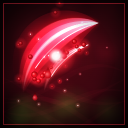
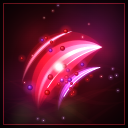
[Claude] feat(ui): 疾風迅雷、迴旋斬、血刃斬圖示重畫並置中
- 疾風迅雷：改為經典 ⚡ 實心雷電＋纏繞的青綠疾風氣流與速度線，一眼看得出是風雷
- 迴旋斬：刀光平均分布一整圈，配色由單一金黃改為金、橘、赤紅、洋紅並點綴青白火花
- 血刃斬：弧線重新定位讓重心落在中央，加入紫色外霧、紫羅蘭細血痕與部分紫色血珠
- 工作站新增 centroid(gid)：量亮度加權的構圖重心，置中與否用數字確認
- 技能圖示快取版號 +1（ui.js 升到 1.0.131，合併 ai/claude-runeword 時這一行取大值）

diff --git a/tools/skill-icons/skill-icon-painter.js b/tools/skill-icons/skill-icon-painter.js
@@ -488,40 +488,45 @@
     motes(c, R, 12, [140, 10, 246, 120], ['#bfe0ff', '#ffffff'], 1, 2.2);
   };
 
-  /* 迴旋斬：俯視的旋風刀光圓盤（只用刀光與火花，不畫兵器），火花沿切線甩出 */
+  /* 迴旋斬：俯視的旋風刀光圓盤，刀光平均分布一整圈；金橘赤紅洋紅多色，青白火花點綴（不畫兵器） */
   PAINTERS.cleave = function (c, R) {
-    background(c, R, PAL.gold);
-    var cx = 128, cy = 130, sq = 0.62;
+    background(c, R, Object.assign({ cx: 128, cy: 128 }, PAL.gold));
+    /* 圓盤中心往右 10：最外圈刀光的粗頭落在左側，量出重心偏左 11 */
+    var cx = 138, cy = 128, sq = 0.62;
+    /* 底色加一層紅紫，讓畫面不只有黃 */
     add(c);
+    glowDot(c, 70, 70, 110, '#8a1a4a', 0.35);
+    glowDot(c, 190, 196, 110, '#6a1a7a', 0.3);
     c.save(); c.translate(cx, cy); c.scale(1, sq);
-    glowDot(c, 0, 0, 120, '#ff9a2a', 0.35);
+    glowDot(c, 0, 0, 124, '#ff7a2a', 0.32);
     c.restore();
     normal(c);
-    /* 由外到內一圈圈的弧形刀光，越內越亮越短 */
+    /* 刀光：每圈起點錯開 120 度，三圈一組，整圈都有東西，重心才會在中央 */
+    var cols = ['#ffcf5a', '#ff7a2a', '#ff3a5a', '#ff5ad0', '#ffd27a', '#ff4a3a'];
     for (var k = 0; k < 6; k++) {
-      var r = 116 - k * 15, a0 = k * 1.15 + 0.3, span = lerp(4.4, 2.6, k / 5);
-      var col = k % 2 ? '#ffcf5a' : '#ff9a2a';
-      swoosh(c, arcPts(cx, cy, r, a0, a0 + span, 60, r * sq), lerp(18, 9, k / 5), col, { taper: 'head', edge: k < 3 });
+      var r = 116 - k * 15, a0 = k * TAU / 3 + (k > 2 ? 0.9 : 0.2), span = lerp(3.6, 2.4, k / 5);
+      swoosh(c, arcPts(cx, cy, r, a0, a0 + span, 60, r * sq), lerp(18, 9, k / 5), cols[k], { taper: 'head', edge: k < 3 });
     }
-    /* 中心的旋渦亮芯 */
+    /* 中心旋渦亮芯 */
     add(c);
     for (var j = 0; j < 3; j++) {
       var sp = spiralPts(cx, cy, 34, 4, j * TAU / 3, 0.8, 24, sq);
-      ribbon(c, sp, function (t) { return 6 * Math.sin(Math.PI * t); }, rgba('#fff2c0', 0.7));
+      ribbon(c, sp, function (t) { return 6 * Math.sin(Math.PI * t); }, rgba(j ? '#ffe0f0' : '#fff2c0', 0.7));
     }
     normal(c);
-    coreGlow(c, cx, cy, 34, '#ffb347', '#fffbe8');
-    /* 沿切線甩出的火花 */
+    coreGlow(c, cx, cy, 34, '#ff8a4a', '#fffbe8');
+    /* 沿切線甩出的火花：暖色為主，夾幾顆青白 */
     add(c);
-    for (var i = 0; i < 16; i++) {
-      var a = range(R, 0, TAU), rr = range(R, 70, 112);
+    for (var i = 0; i < 18; i++) {
+      var a = i / 18 * TAU + range(R, -0.15, 0.15), rr = range(R, 76, 114);
       var px = cx + Math.cos(a) * rr, py = cy + Math.sin(a) * rr * sq;
-      var tx = -Math.sin(a), ty = Math.cos(a) * sq, ln = range(R, 14, 34);
-      ribbon(c, linePts(px - tx * ln, py - ty * ln, px, py, 6), function (t) { return 3 * t; }, rgba('#ffe7a0', 0.85));
-      glowDot(c, px, py, 5, '#ffcf6a', 0.9);
+      var tx = -Math.sin(a), ty = Math.cos(a) * sq, ln = range(R, 14, 32);
+      var col = i % 5 === 0 ? '#9ff0ff' : (i % 3 === 0 ? '#ff8ad8' : '#ffe7a0');
+      ribbon(c, linePts(px - tx * ln, py - ty * ln, px, py, 6), function (t) { return 3 * t; }, rgba(col, 0.85));
+      glowDot(c, px, py, 5, col, 0.9);
     }
     normal(c);
-    motes(c, R, 14, [10, 10, 246, 246], ['#ffcf6a', '#ff8a2a'], 1, 2.4);
+    motes(c, R, 16, [10, 10, 246, 246], ['#ffcf6a', '#ff5ad0', '#9ff0ff'], 1, 2.4);
   };
 
   /* 飛刀：三把苦無平行疾射，拖出殘光 */
@@ -568,79 +573,91 @@
     motes(c, R, 12, [30, 20, 240, 230], ['#bfe0ff'], 1, 2);
   };
 
-  /* 疾風迅雷：一閃而過的居合細光（斜直線構圖），殘影與雷弧纏繞，不畫兵器 */
+  /* 疾風迅雷：一道粗大的 Z 字實心雷電斜劈而過，外纏青綠疾風氣流，後方拖速度線（風＋雷＋快） */
   PAINTERS.gale = function (c, R) {
     background(c, R, Object.assign({ cx: 128, cy: 128 }, PAL.bolt));
-    var x0 = 14, y0 = 196, x1 = 242, y1 = 62;
-    var ang = Math.atan2(y1 - y0, x1 - x0), dx = Math.cos(ang), dy = Math.sin(ang), nx = -dy, ny = dx;
-    /* 殘影：平行的速度光帶 */
+    add(c); glowDot(c, 128, 128, 120, '#2a8a7a', 0.25); normal(c);
+    /* 速度線：從左下往右上，與雷電同向 */
+    var dir = Math.atan2(-1, 0.8), dx = Math.cos(dir), dy = Math.sin(dir), nx = -dy, ny = dx;
     add(c);
-    for (var i = 0; i < 14; i++) {
-      var off = range(R, -70, 70), st = range(R, 0.05, 0.6), ln = range(R, 0.2, 0.45);
-      var ax = lerp(x0, x1, st) + nx * off, ay = lerp(y0, y1, st) + ny * off;
-      var bx = ax + dx * ln * 260, by = ay + dy * ln * 260;
-      var a = Math.max(0.08, 0.45 - Math.abs(off) / 180);
-      ribbon(c, linePts(ax, ay, bx, by, 10), function (t) { return 3 * Math.sin(Math.PI * t); }, rgba('#a8c8ff', a));
+    for (var i = 0; i < 12; i++) {
+      var off = range(R, -90, 90), st = range(R, -110, 10), ln = range(R, 40, 90);
+      var x0 = 128 + nx * off + dx * st, y0 = 128 + ny * off + dy * st;
+      ribbon(c, linePts(x0, y0, x0 + dx * ln, y0 + dy * ln, 8), function (t) { return 2.4 * Math.sin(Math.PI * t); },
+        rgba(i % 3 ? '#8ff5d0' : '#ffe27a', range(R, 0.15, 0.4)));
     }
     normal(c);
-    /* 主閃光：極細極長，中段最粗 */
-    var main = linePts(x0, y0, x1, y1, 40);
-    add(c);
-    ribbon(c, main, function (t) { return 40 * Math.pow(Math.sin(Math.PI * t), 2); }, rgba('#6a8cff', 0.25));
-    ribbon(c, main, function (t) { return 16 * Math.pow(Math.sin(Math.PI * t), 1.5); }, rgba('#b8d0ff', 0.8));
-    ribbon(c, main, function (t) { return 5 * Math.pow(Math.sin(Math.PI * t), 1.2); }, rgba('#ffffff', 1));
-    normal(c);
-    /* 纏著閃光的雷弧 */
-    lightning(c, 40, 170, 120, 150, R, { width: 2.2, color: '#ffd84a', rough: 0.35 });
-    lightning(c, 130, 120, 220, 92, R, { width: 2.4, color: '#ffd84a', rough: 0.35, branches: 1 });
-    lightning(c, 96, 118, 150, 70, R, { width: 1.6, color: '#ffd84a', rough: 0.4 });
-    lightning(c, 150, 150, 196, 196, R, { width: 1.6, color: '#ffd84a', rough: 0.4 });
-    /* 交會點的十字閃 */
-    coreGlow(c, 128, 129, 40, '#7aa0ff');
-    sparkle(c, 128, 129, 28, '#b8d0ff', ang);
-    motes(c, R, 18, [10, 10, 246, 246], ['#ffe27a', '#a8c8ff'], 1, 2.2);
+    /* 雷電本體：經典的 ⚡ 實心多邊形，內縮一圈當白芯 */
+    /* 上寬下尖，量出重心偏上 10，整個往下 8 */
+    var BOLT = [[150, 24], [92, 144], [128, 144], [100, 246], [176, 118], [138, 118], [178, 24]];
+    var bcx = 0, bcy = 0;
+    BOLT.forEach(function (p) { bcx += p[0] / BOLT.length; bcy += p[1] / BOLT.length; });
+    var bolt = function (cc, k) {
+      cc.beginPath();
+      BOLT.forEach(function (p, i) {
+        var x = bcx + (p[0] - bcx) * k, y = bcy + (p[1] - bcy) * k;
+        if (i) cc.lineTo(x, y); else cc.moveTo(x, y);
+      });
+      cc.closePath();
+    };
+    c.save(); add(c);
+    bolt(c, 1.08); c.fillStyle = 'rgba(255,190,40,0.25)'; c.shadowBlur = 34; c.shadowColor = '#ffb020'; c.fill();
+    c.restore();
+    c.save();
+    bolt(c, 1);
+    var bg = c.createLinearGradient(110, 16, 150, 240);
+    bg.addColorStop(0, '#fff6c0'); bg.addColorStop(0.45, '#ffd84a'); bg.addColorStop(1, '#ff8a1a');
+    c.fillStyle = bg; c.fill();
+    c.lineJoin = 'round'; c.lineWidth = 2.4; c.strokeStyle = 'rgba(255,255,235,0.95)'; c.stroke();
+    c.restore();
+    c.save(); add(c);
+    bolt(c, 0.55); c.fillStyle = 'rgba(255,255,255,0.75)'; c.shadowBlur = 10; c.shadowColor = '#ffffff'; c.fill();
+    c.restore();
+    /* 纏繞雷電的疾風氣流：兩條 S 形青綠帶子，前後穿插 */
+    swoosh(c, bezPts([30, 200], [90, 120], [190, 210], [226, 70], 50), 16, '#5ef0c0', { taper: 'head' });
+    swoosh(c, bezPts([226, 190], [170, 150], [70, 150], [40, 50], 50), 12, '#8ff5e0', { taper: 'head' });
+    /* 雷電邊緣迸出的細電弧 */
+    lightning(c, 96, 134, 46, 112, R, { width: 1.6, color: '#ffd84a', rough: 0.4, depth: 4 });
+    lightning(c, 176, 110, 224, 132, R, { width: 1.6, color: '#ffd84a', rough: 0.4, depth: 4 });
+    lightning(c, 100, 238, 56, 214, R, { width: 1.4, color: '#ffd84a', rough: 0.4, depth: 4 });
+    motes(c, R, 18, [10, 10, 246, 246], ['#ffe27a', '#8ff5d0'], 1, 2.2);
   };
 
-  /* 血刃斬：一道大弧形血斬，切口噴出血珠與血霧，底部毒霧（不畫兵器） */
+  /* 血刃斬：一道大弧形血斬（重心在正中），紫色外暈與紫羅蘭細血痕，切口噴出紅紫血珠（不畫兵器） */
   PAINTERS.bloodblade = function (c, R) {
-    background(c, R, Object.assign({ cx: 128, cy: 120 }, PAL.blood));
+    background(c, R, Object.assign({ cx: 128, cy: 128 }, PAL.blood));
     add(c);
-    for (var i = 0; i < 7; i++) glowDot(c, range(R, 30, 226), range(R, 196, 250), range(R, 26, 50), '#4caf2b', 0.16);
+    glowDot(c, 200, 70, 110, '#5a1a8a', 0.4);
+    glowDot(c, 60, 200, 100, '#6a1080', 0.3);
+    for (var i = 0; i < 6; i++) glowDot(c, range(R, 30, 226), range(R, 206, 252), range(R, 22, 40), '#4caf2b', 0.12);
     normal(c);
-    /* 主血斬：從右上劈到左下的大弧，外層暗紅、內層鮮紅 */
-    var arc = arcPts(196, 196, 150, Math.PI * 1.02, Math.PI * 1.5, 60);
-    swoosh(c, arc, 54, '#a00818', { taper: 'mid', edge: false });
-    swoosh(c, arc, 30, '#ff2a3a', { taper: 'mid' });
-    /* 第二道細血痕 */
-    swoosh(c, arcPts(206, 206, 120, Math.PI * 1.06, Math.PI * 1.42, 40), 10, '#ff6a6a', { taper: 'mid' });
-    /* 從切口往外噴的血珠：沿弧的法線往外，越外越小 */
-    var drop = function (x, y, r) {
+    /* 弧心放右下、半徑 120：弧頂在 (115,115)、弦中點在 (142,142)，筆畫重心落在畫面中央 */
+    var ox = 196, oy = 214;  /* 量測後補正：原本重心偏上 14、偏右 4 */
+    var arc = arcPts(ox, oy, 120, Math.PI * 0.98, Math.PI * 1.52, 60);
+    swoosh(c, arc, 58, '#a00818', { taper: 'mid', edge: false });
+    swoosh(c, arc, 32, '#ff2a3a', { taper: 'mid' });
+    swoosh(c, arcPts(ox + 16, oy + 16, 96, Math.PI * 1.02, Math.PI * 1.46, 40), 11, '#a050ff', { taper: 'mid' });
+    swoosh(c, arcPts(ox - 16, oy - 16, 140, Math.PI * 1.06, Math.PI * 1.42, 40), 6, '#ff7aa0', { taper: 'mid', edge: false });
+    /* 從切口往外噴的血珠：紅為主、夾紫 */
+    var drop = function (x, y, r, purple) {
       c.beginPath(); c.arc(x, y, r, 0, TAU);
       var g = c.createRadialGradient(x - r * 0.35, y - r * 0.35, 0, x, y, r);
-      g.addColorStop(0, '#ff8a8a'); g.addColorStop(0.45, '#d0101e'); g.addColorStop(1, '#4a0008');
+      if (purple) { g.addColorStop(0, '#e0a0ff'); g.addColorStop(0.45, '#8a20c0'); g.addColorStop(1, '#2a0040'); }
+      else { g.addColorStop(0, '#ff8a8a'); g.addColorStop(0.45, '#d0101e'); g.addColorStop(1, '#4a0008'); }
       c.fillStyle = g; c.fill();
     };
     for (var k = 0; k < 26; k++) {
       var t = range(R, 0.15, 0.85), idx = Math.floor(t * (arc.length - 1));
-      var p = arc[idx], ox = p[0] - 196, oy = p[1] - 196, L = Math.hypot(ox, oy);
-      var out = range(R, 10, 70) * (R() < 0.75 ? -1 : 1);   /* 多數往弧內側（畫面中央）噴 */
-      var x = p[0] + ox / L * out + range(R, -8, 8), y = p[1] + oy / L * out + range(R, -8, 8);
-      var r = lerp(7, 2, Math.abs(out) / 70) * range(R, 0.7, 1.2);
-      add(c); glowDot(c, x, y, r * 3, '#ff2030', 0.35); normal(c);
-      drop(x, y, r);
+      var p = arc[idx], vx = p[0] - ox, vy = p[1] - oy, L = Math.hypot(vx, vy);
+      var out = range(R, 10, 60) * (R() < 0.5 ? -1 : 1);   /* 兩側都噴，避免全堆在一邊 */
+      var x = p[0] + vx / L * out + range(R, -8, 8), y = p[1] + vy / L * out + range(R, -8, 8);
+      var r = lerp(7, 2, Math.abs(out) / 60) * range(R, 0.7, 1.2);
+      var purple = k % 4 === 0;
+      add(c); glowDot(c, x, y, r * 3, purple ? '#a040ff' : '#ff2030', 0.35); normal(c);
+      drop(x, y, r, purple);
     }
-    /* 往下滴的血 */
-    [[96, 150, 7], [128, 112, 6], [70, 196, 5]].forEach(function (d) {
-      var x = d[0], y = d[1], r = d[2];
-      c.beginPath();
-      c.moveTo(x, y - r * 2.6); c.bezierCurveTo(x + r * 0.4, y - r * 1.2, x + r, y - r * 0.4, x + r, y);
-      c.arc(x, y, r, 0, Math.PI); c.bezierCurveTo(x - r, y - r * 0.4, x - r * 0.4, y - r * 1.2, x, y - r * 2.6);
-      var g = c.createRadialGradient(x - r * 0.3, y - r * 0.3, 0, x, y, r * 1.6);
-      g.addColorStop(0, '#ff6a72'); g.addColorStop(0.5, '#c0101e'); g.addColorStop(1, '#4a0008');
-      c.fillStyle = g; c.fill();
-    });
-    coreGlow(c, 112, 112, 40, '#ff3344');
-    motes(c, R, 14, [10, 10, 246, 220], ['#ff4455', '#ff8a8a'], 1, 2.2);
+    coreGlow(c, 118, 134, 34, '#ff3a4a');
+    motes(c, R, 16, [10, 10, 246, 246], ['#ff4455', '#c070ff', '#ff8a8a'], 1, 2.2);
   };
 
   /* 雙刀亂舞：兩把直刃短劍交叉，四周是不閉合的旋舞刀光 */

diff --git a/tools/skill-icons/skill-icon-studio.html b/tools/skill-icons/skill-icon-studio.html
@@ -126,6 +126,20 @@
     });
     return post('/preview?name=' + (name || 'sheet'), cv.toDataURL('image/png'));
   };
+  /* 構圖重心：亮度加權的質心（扣掉畫面亮度中位數，只算比底色亮的部分），回傳相對中心的偏移（256 座標）。
+     使用者會指出「偏左上」之類的問題，用數字確認比目測可靠；|dx|、|dy| 在 10 以內算置中。 */
+  window.centroid = function (gid) {
+    var cv = SkillIconPainter.paint(gid), S = cv.width;
+    var d = cv.getContext('2d').getImageData(0, 0, S, S).data, lum = new Float32Array(S * S);
+    for (var i = 0; i < S * S; i++) lum[i] = 0.2126 * d[i * 4] + 0.7152 * d[i * 4 + 1] + 0.0722 * d[i * 4 + 2];
+    var med = Array.prototype.slice.call(lum).sort(function (a, b) { return a - b; })[Math.floor(S * S / 2)];
+    var sw = 0, sx = 0, sy = 0;
+    for (var y = 10; y < S - 10; y++) for (var x = 10; x < S - 10; x++) {
+      var w = Math.max(0, lum[y * S + x] - med); sw += w; sx += w * x; sy += w * y;
+    }
+    return { gid: gid, dx: Math.round(sx / sw - S / 2), dy: Math.round(sy / sw - S / 2) };
+  };
+
   document.getElementById('btn-sheet').onclick = function () {
     window.exportSheet('sheet').then(function (p) { log.textContent = '總覽圖：' + p; });
   };

diff --git a/js/ui.js b/js/ui.js
@@ -3638,7 +3638,7 @@ function battleSkillSlotKey(state) {
 /* 技能圖示：skills2 群組用畫好的圖（images/skills/<群組id>.png，由 tools/skill-icons/ 產生），
    潛力技能等其餘技能沿用 emoji。entry 可為 'sg:<群組id>' 或群組 id；
    圖載入失敗（例如新群組還沒出圖）時退回 emoji。重新出圖後要把 SKILL_ICON_VER +1，否則玩家會看到快取的舊圖。 */
-var SKILL_ICON_VER = '2';
+var SKILL_ICON_VER = '3';
 function skillIconGid(entry) {
   if (typeof entry !== 'string' || typeof SKILLS2 === 'undefined') return '';
   var gid = entry.indexOf('sg:') === 0 ? entry.slice(3) : entry;

diff --git a/index.html b/index.html
@@ -923,7 +923,7 @@
   <script src="js/potential.js?v=1.0.9"></script>
   <script src="js/tower.js?v=1.0.20"></script>
   <script src="js/save.js?v=1.0.10"></script>
-  <script src="js/ui.js?v=1.0.130"></script>
+  <script src="js/ui.js?v=1.0.131"></script>
   <script src="js/param_autoreload.js"></script>
   <!-- GM 面板。指令執行層在 js/gm_exec.js，由 Worker importScripts 載入 -->
   <script src="js/gm.js?v=1.0.1"></script>
